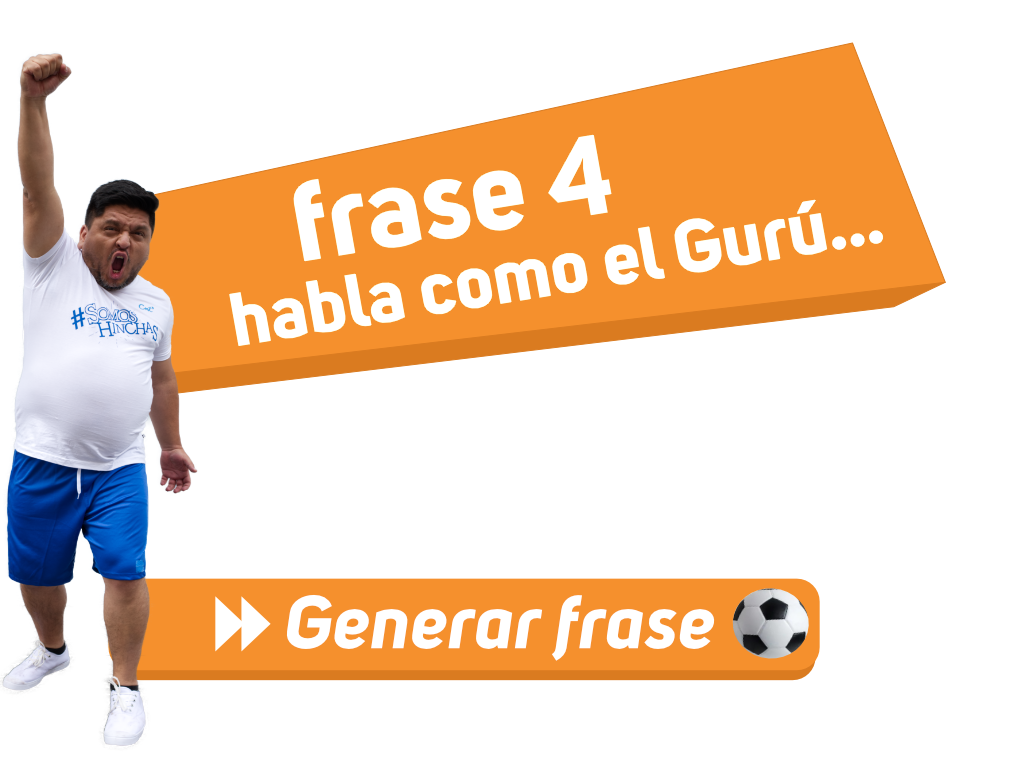
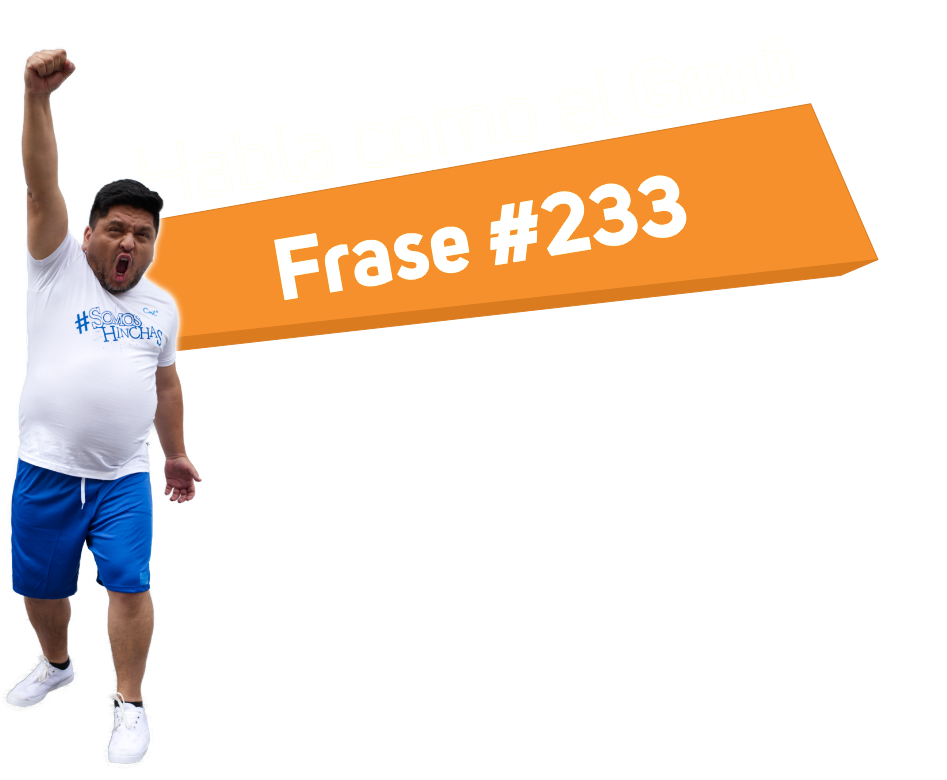
cambios nov 20

Changed region(s): [[0.0, 0.0308, 0.9493, 0.9846]]

diff --git a/index-conProductos.html b/index-conProductos.html
@@ -59,12 +59,14 @@ $('[data-fancybox]').fancybox({
         </li>
        
         <li class="nav-item">
-          <a class="nav-link" href="#frases">Frases del Gurú</a>
+          <a class="nav-link" href="#">Frases del Gurú</a>
         </li>
         <li class="nav-item">
-          <a class="nav-link" href="#verguru">Ver el Gurú</a>
+          <a class="nav-link" href="#">Ver el Gurú</a>
         </li>
-       
+         <li class="nav-item">
+          <a class="nav-link" href="#">Promos CNT</a>
+        </li>
       </ul>
      
     </div>
@@ -130,9 +132,9 @@ $('[data-fancybox]').fancybox({
 </div>
 
 
-<div id="frases"  class="row bgQueDice" style="background-color: #0093D2">
+<div  class="row bgQueDice" style="background-color: #0093D2">
 					<div class="col-md-2 col-lg-4"></div>
-					<div class="col-md-8 col-lg-4 roulette" style="margin-top: -1px; ">	
+					<div class="col-md-8 col-lg-4 roulette">	
 							<img width="100%" src="images/frase4.png"/>
 							<img width="100%" src="images/frase4.png"/>
 							<img width="100%" src="images/frase4.png"/>
@@ -144,9 +146,9 @@ $('[data-fancybox]').fancybox({
 			</div>
 <div class="row">
 		
-				<div class="col-sm-1 col-lg-3"> </div>
-					 <div class="col-sm-10 col-lg-6"> <button class="start" style="border: 0px; background-color: #fff;"> <img width="100%" src="images/generarBtn.png"> </button></div>
-						<div class="col-sm-1 col-lg-3"> </div>
+				
+					
+						<button class="btn-block btn-primary start" style="height: 4em"> Generar Frase </button>
 						
 						
 				
@@ -170,7 +172,7 @@ $('[data-fancybox]').fancybox({
     </script>
 
 
-  <div id="verguru" class="row" style="background-color: black;" >
+  <div class="row" style="background-color: black;" >
 
   	<div class="col-12"> <img width="80%" src="images/transparentBg.png"></div>
 
@@ -180,7 +182,7 @@ $('[data-fancybox]').fancybox({
 
 		
 		<div  class="videoTag">
-		<a data-fancybox   data-height="100%" href="https://youtu.be/DTJ1_c5WywE" >
+		<a data-fancybox   data-height="100%" href="https://youtu.be/9UEggFVrU6g" >
 			<img width="50%" src="images/ep1.png">
 		</a>
 			
@@ -205,7 +207,7 @@ $('[data-fancybox]').fancybox({
     <div id="collapseOne" class="collapse" aria-labelledby="headingOne" data-parent="#accordionExample">
       <div class="card-body">
         <ul class="list-group text-center">
-	  <li class="list-group-item"><a data-fancybox   data-height="100%" href="https://youtu.be/DTJ1_c5WywE" >Episodio 1 - Hola, ya vine</a></li>
+	  <li class="list-group-item"><a data-fancybox   data-height="100%" href="https://youtu.be/9UEggFVrU6g" >Episodio 1 - Hola, ya vine</a></li>
 		  <li class="list-group-item">Episodio 2 - Próximamente</li>
 		  <li class="list-group-item">Episodio 3 - Próximamente</li>
 		  <li class="list-group-item">Episodio 4 - Próximamente</li>
@@ -222,7 +224,178 @@ $('[data-fancybox]').fancybox({
 
 
 </div>
+<div class="row bgRecomienda">
+<div class="col-1 d-inline-block"></div>
+<div class="col-10 ">
+<div class="row">
+	<div class="col-12  text-center pt-5"><h2>El Gurú recomienda</h2> </div>
 
+		
+
+		<div class="col-md-8 col-lg-4 mt-3  view overlay zoom text-center">  <img src="images/promo1.png" class="img-fluid " alt="smaple image">
+    <div class="mask p-4  white-text" style="background-color: #0093D2">
+      
+       <div class="row ">
+       	<div class="col-12" style="text-align:left;">
+       		<ul style="font-size: 0.8em;">
+       			<li>descripción 1</li>
+       			<li>descripción 2</li>
+       			<li>descripción 3</li>
+       			<li>descripción 4</li>
+       			<li>descripción 5</li>
+       		</ul>
+       	</div>
+
+ 
+       	<div class="col-12" > <button  class="btn white-text btn-sm mt-n2" data-toggle="modal" data-target="#loquiero">Lo quiero </button>	</div>
+
+       </div>
+
+    </div></div>
+
+		
+	
+
+		<div class="col-md-8 col-lg-4 mt-3  view overlay zoom text-center">  <img src="images/promo2.png" class="img-fluid " alt="smaple image">
+    <div class="mask p-4  white-text" style="background-color: #A04892">
+      
+       <div class="row ">
+       	<div class="col-12" style="width: 100%;  text-align:left;">
+     	<ul style="font-size: 0.8em;">
+       			<li>descripción 1</li>
+       			<li>descripción 2</li>
+       			<li>descripción 3</li>
+       			<li>descripción 4</li>
+       			<li>descripción 5</li>
+       			
+       		
+       		</ul>
+       	</div>
+
+ 
+       	<div class="col-12" > <button  class="btn white-text btn-sm mt-n2" data-toggle="modal" data-target="#loquiero">Lo quiero </button>	</div>
+
+       </div>
+
+    </div></div>
+
+
+	<div class="col-md-8 col-lg-4 mt-3  view overlay zoom text-center">  <img src="images/promo3.png" class="img-fluid " alt="smaple image">
+    <div class="mask p-4  white-text" style="background-color: #5BC5C8">
+      
+       <div class="row ">
+       	<div class="col-12" style="width: 100%;  text-align:left;">
+       		     	<ul style="font-size: 0.8em;">
+       			<li>descripción 1</li>
+       			<li>descripción 2</li>
+       			<li>descripción 3</li>
+       			<li>descripción 4</li>
+       			<li>descripción 5</li>
+       			
+       		
+       		</ul>
+       	</div>
+
+ 
+   
+       	<div class="col-12" > <button  class="btn white-text btn-sm mt-n2" data-toggle="modal" data-target="#loquiero">Lo quiero </button>	</div>
+       </div>
+
+    </div></div>
+
+
+	
+
+</div>
+
+<div class="row">
+
+
+		
+
+		<div class="col-md-8 col-lg-4 mt-3  view overlay zoom text-center">  <img src="images/promo1.png" class="img-fluid " alt="smaple image">
+    <div class="mask p-4  white-text" style="background-color: #0093D2">
+      
+       <div class="row ">
+       	<div class="col-12" style="width: 100%;  text-align:left;">
+     	<ul style="font-size: 0.8em;">
+       			<li>descripción 1</li>
+       			<li>descripción 2</li>
+       			<li>descripción 3</li>
+       			<li>descripción 4</li>
+       			<li>descripción 5</li>
+       			
+       		
+       		</ul>
+       	</div>
+
+ 
+  
+       	<div class="col-12" > <button  class="btn white-text btn-sm mt-n2" data-toggle="modal" data-target="#loquiero">Lo quiero </button>	</div>
+
+       </div>
+
+    </div></div>
+
+		
+	
+
+		<div class="col-md-8 col-lg-4 mt-3  view overlay zoom text-center">  <img src="images/promo2.png" class="img-fluid " alt="smaple image">
+    <div class="mask p-4  white-text" style="background-color: #A04892">
+      
+       <div class="row ">
+       	<div class="col-12" style="width: 100%;  text-align:left;">
+     	<ul style="font-size: 0.8em;">
+       			<li>descripción 1</li>
+       			<li>descripción 2</li>
+       			<li>descripción 3</li>
+       			<li>descripción 4</li>
+       			<li>descripción 5</li>
+       			
+       		
+       		</ul>
+       	</div>
+
+ 
+     
+     	<div class="col-12" > <button  class="btn white-text btn-sm mt-n2" data-toggle="modal" data-target="#loquiero">Lo quiero </button>	</div>
+
+       </div>
+
+    </div></div>
+
+
+	<div class="col-md-8 col-lg-4 mt-3  view overlay zoom text-center">  <img src="images/promo3.png" class="img-fluid " alt="smaple image">
+    <div class="mask p-4  white-text" style="background-color: #5BC5C8">
+      
+       <div class="row ">
+       	<div class="col-12" style="width: 100%;  text-align:left;">
+       		     	<ul style="font-size: 0.8em;">
+       			<li>descripción 1</li>
+       			<li>descripción 2</li>
+       			<li>descripción 3</li>
+       			<li>descripción 4</li>
+       			<li>descripción 5</li>
+       			
+       		
+       		</ul>
+       	</div>
+
+ 
+       
+       	<div class="col-12" > <button  class="btn white-text btn-sm mt-n2" data-toggle="modal" data-target="#loquiero">Lo quiero </button>	</div>
+       </div>
+
+    </div></div>
+
+
+	
+
+</div>
+
+  
+
+</div>
 <div class="col-1"></div>
 
 </div>
